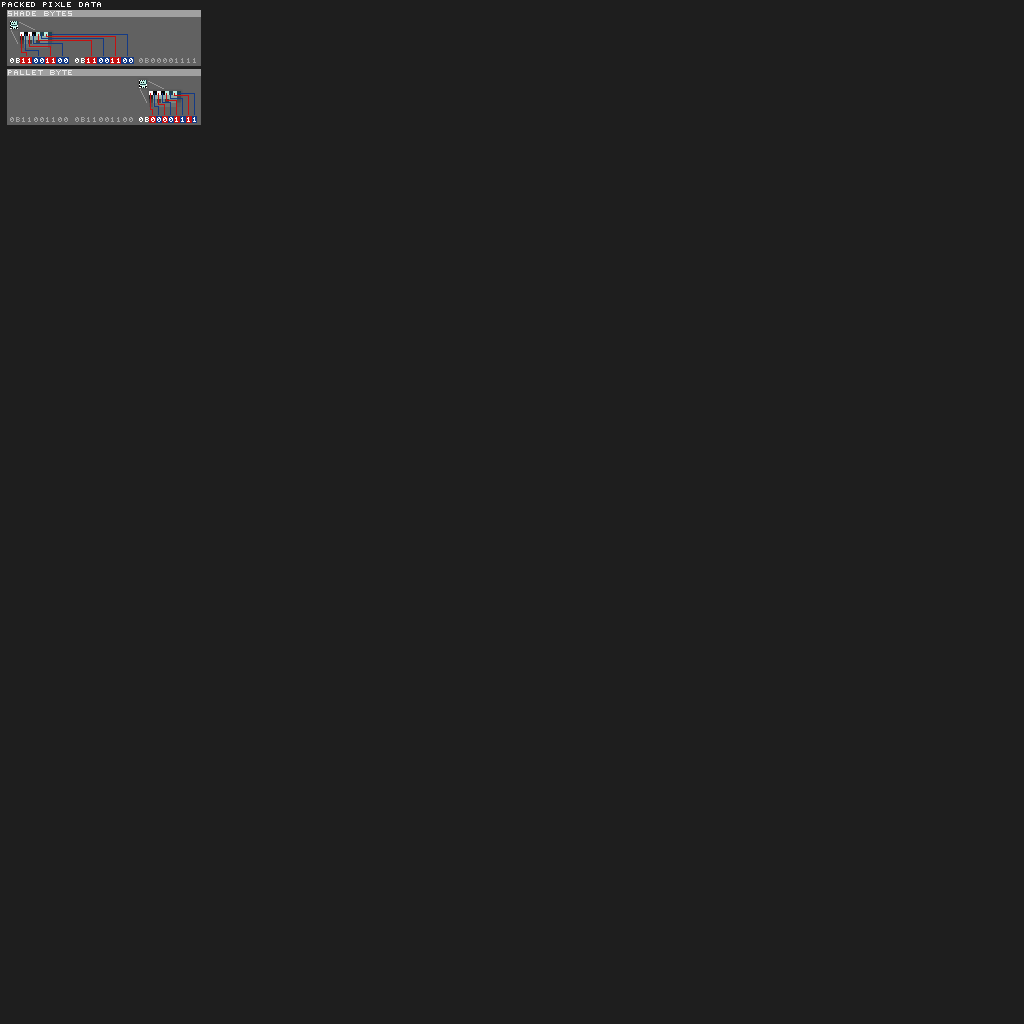
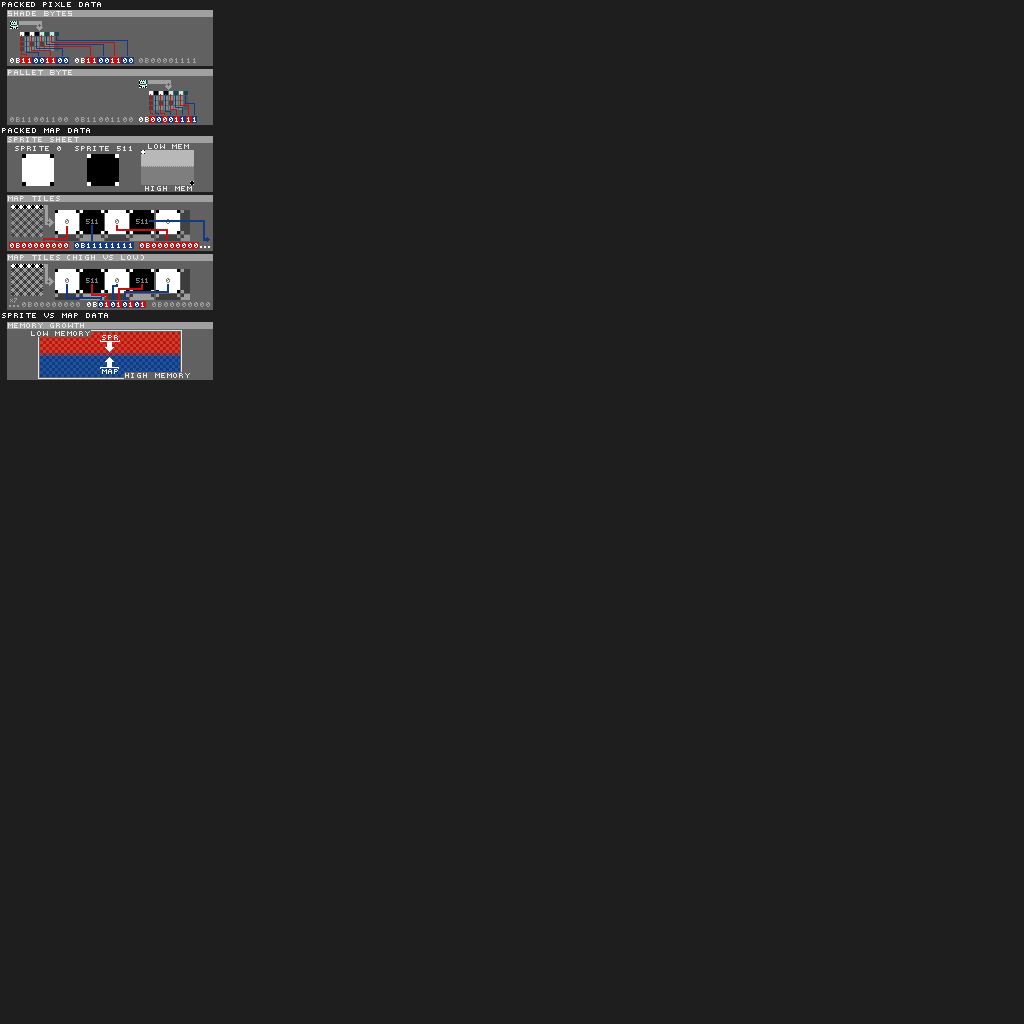
update readme images

Changed region(s): [[0.0, 0.0, 0.2188, 0.375], [0.0, 0.0312, 0.125, 0.0625]]

diff --git a/README.md b/README.md
@@ -155,7 +155,7 @@ excellent material on how to do this already. Visit here or here for some materi
 
 ### GoLF structs
 
-golf.SOp: This structure is a list of options that can be passed to a sprite to change how it is drawn.
+**golf.SOp:** This structure is a list of options that can be passed to a sprite to change how it is drawn.
   * FH: flip the sprite horizontally.
   * FV: flip the sprite vertically.
   * TCol: set the sprites tranparency color.
@@ -166,7 +166,7 @@ golf.SOp: This structure is a list of options that can be passed to a sprite to 
   * SH: the amount to scale the height of the sprite. default value is 1 or no scaling.
   * Fixed: if this is set to true then the sprite ignores the camera x & y when draing. Useful for UI.
 
-golf.TOp: this structure is a list of options that can be passed to text functions to change how text is drawn.
+**golf.TOp:** this structure is a list of options that can be passed to text functions to change how text is drawn.
   * Col: The color to draw the text.
 	* Fixed: If this is set to true the text ignores the camera.
 	* SW: the amount to scale the width of the text.
@@ -174,115 +174,112 @@ golf.TOp: this structure is a list of options that can be passed to text functio
 
 ### Golf Types
 
-golf.Col: a golf color. there are 8 colors ranging from Col0 to Col7. The first 4 colors map to pallet A and the last
+**golf.Col:** a golf color. there are 8 colors ranging from Col0 to Col7. The first 4 colors map to pallet A and the last
 four map to pallet B.
 
-golf.Pal: a golf pallet. There are 16 available pallets (Pal0 to Pal15). These can be used to give you game a unique feel/ look.
+**golf.Pal:** a golf pallet. There are 16 available pallets (Pal0 to Pal15). These can be used to give you game a unique feel/ look.
 
 ### The GoLF Engine
 
-NewEngine(updateFunc func(), draw func()): creates a golf engine instance and returns a pointer to the engine. The golf engine is
-the main object used to perform most of the golf functions
+**NewEngine(updateFunc func(), draw func()):** creates a golf engine instance and returns a pointer to the engine. 
+The golf engine is the main object used to perform most of the golf functions
 
-engine.Run(): starts the game engine running. Once this is run the update function will be called 60 times a second and the draw function will be called 60 times a second.
+**engine.Run():** starts the game engine running. Once this is run the update function will be called 60 times a second and the draw function will be called 60 times a second.
 
-engine.Frames(): returns the number of frames that have passed since the game engine was started. This count includes
+**engine.Frames():** returns the number of frames that have passed since the game engine was started. This count includes
 the startup animation frames. The startup animation is 254 frames meaning the first frame that the update/ draw function 
 will be called is frame 255.
 
-engine.DrawMouse(style int): sets the draw style for the mouse indictor.
+**engine.DrawMouse(style int):** sets the draw style for the mouse indictor.
   * 0 = no mouse cursor is drawn
   * 1 = a mouse arrow is drawn
   * 2 = a hand cursor is drawn
   * 3 = a cross cursoe is drawn
 
-engine.Cls(col golf.Col): fills the screen with the col color.
+**engine.Cls(col golf.Col):** fills the screen with the col color.
 
-engine.Camera(x, y int): Changes the X, Y coordinates of the camera. This value is then subtracted from the
+**engine.Camera(x, y int):** Changes the X, Y coordinates of the camera. This value is then subtracted from the
 X, Y coordinates of all future drawing calls. This is useful for moving the panning the screen around.
 
-engine.Clip(x, y, w, h int): clips all future draw functions with upper left corner at point (x, y) and with w and heigh h.
+**engine.Clip(x, y, w, h int):** clips all future draw functions with upper left corner at point (x, y) and with w and heigh h.
 
-engine.RClip(): resets the screen clipping so that no screen pixels are clipped.
+**engine.RClip():** resets the screen clipping so that no screen pixels are clipped.
 
-engine.PalA(pallet golf.Pal): sets the first pallet.
+**engine.PalA(pallet golf.Pal):** sets the first pallet.
 
-engine.PalB(pallet golf.Pal): sets the second pallet.
+**engine.PalB(pallet golf.Pal):** sets the second pallet.
 
-engine.PalGet(): returns the first and second pallets that are currently set.
+**engine.PalGet():** returns the first and second pallets that are currently set.
 
 ### Shapes
 
-engine.Pset(x, y float64, col golf.Col): Sets the pixel on the screen at point (x, y) to the color col.
+**engine.Pset(x, y float64, col golf.Col):** Sets the pixel on the screen at point (x, y) to the color col.
 
-engine.Pget(x, y float64): Gets the color currently set at screen pixel (x, y).
+**engine.Pget(x, y float64):** Gets the color currently set at screen pixel (x, y).
 
-engine.Rect(x, y, w, h float64, col golf.Col): Draw an empty rectangle outline with the specified draw color.
+**engine.Rect(x, y, w, h float64, col golf.Col):** Draw an empty rectangle outline with the specified draw color.
 
-engine.RectFill(x, y, w, h float64, col golf.Col): Draw a filled rectangle with the specified draw color.
+**engine.RectFill(x, y, w, h float64, col golf.Col):** Draw a filled rectangle with the specified draw color.
 
-engine.Line(x1, y1, x2, y2 float64, col golf.Col): Draw a line from point (x1, y1) to (x2, y2). The line is drawn with
+**engine.Line(x1, y1, x2, y2 float64, col golf.Col):** Draw a line from point (x1, y1) to (x2, y2). The line is drawn with
 the specified color.
 
-engine.Circ(xc, yx, r float64, col golf.Col): Draw a circle outline with center at point (xc, yc) with radius r.
+**engine.Circ(xc, yx, r float64, col golf.Col):** Draw a circle outline with center at point (xc, yc) with radius r.
 The outline is drawn with the specified color.
 
-engine.CircFill(xc, yc, r float64, col golf.Col): Draw a filled circle with center at point (xc, yc) with radius r.
+**engine.CircFill(xc, yc, r float64, col golf.Col):** Draw a filled circle with center at point (xc, yc) with radius r.
 The circle is drawn with the specified color
 
 ### Controlls
 
-engine.Btn(key golf.Key): returns true if the given key is being held on this frame.
+**engine.Btn(key golf.Key):** returns true if the given key is being held on this frame.
 
-engine.Btnp(key golf.Key): returns true if the given key was first pressed on this frame.
+**engine.Btnp(key golf.Key):** returns true if the given key was first pressed on this frame.
 
-engine.Btnr(key golf.Key): returns true if the given key was released on this frame.
+**engine.Btnr(key golf.Key):** returns true if the given key was released on this frame.
 
-engine.Mbtn(key golf.MouseBtn): returns true if the given mouse key is being held on this frame.
+**engine.Mbtn(key golf.MouseBtn):** returns true if the given mouse key is being held on this frame.
 
-engine.Mbtnp(key golf.MouseBtn): returns true if the given mouse key was first pressed on this frame.
+**engine.Mbtnp(key golf.MouseBtn):** returns true if the given mouse key was first pressed on this frame.
 
-engine.Mbtnr(key golf.MouseBtn): returns true if the given mouse was released ont his frame.
+**engine.Mbtnr(key golf.MouseBtn):** returns true if the given mouse was released ont his frame.
 
 ### Map
 
-engine.LoadMap(mapData [0x4800]byte): load the map data into memory.
+**engine.LoadMap(mapData [0x4800]byte):** load the map data into memory.
 
-engine.Map(mx, my, mw, mh int, dx, dy float64, opts ...SOp): Draws the map data onto the screen witht he left coordinate 
+**engine.Map(mx, my, mw, mh int, dx, dy float64, opts ...SOp):** Draws the map data onto the screen witht he left coordinate 
 at screen point dx, dy. mx and my are the map coordinates in tiles and dw and mh are the map size in tiles. opts are optional and change how each individual map tile is drawn.
 
-engine.Mset(x, y, t int): sets the map tile to sprite number t at the map coordinate (x, y)
+**engine.Mset(x, y, t int):** sets the map tile to sprite number t at the map coordinate (x, y)
 
-engine.Mget(x, y int): returns the sprite index of the tile a the map coordinate (x, y)
+**engine.Mget(x, y int):** returns the sprite index of the tile a the map coordinate (x, y)
 
 ### Sprites
 
-engine.LoadSprs(sheet [0x3000]byte): load the sprite sheet data into memory.
+**engine.LoadSprs(sheet [0x3000]byte):** load the sprite sheet data into memory.
 
-engine.LoadFlags(flags [0x200]byte): load the sprite flags into memory. Each sprite in the sprite sheet has 1 byte 
+**engine.LoadFlags(flags [0x200]byte):** load the sprite flags into memory. Each sprite in the sprite sheet has 1 byte 
 (or 8 flags) associated with is that can be set and then later checked. The meaning of each of these flags is 
 totally up to the needs of the progarmmer.
 
-engine.Spr(n int, x, y float64, opts ...SOp): draw sprite number n at screen position x, y. opts are optional and change
+**engine.Spr(n int, x, y float64, opts ...SOp):** draw sprite number n at screen position x, y. opts are optional and change
 how the sprite is drawn on screen. the sprite sheet is broken up into 8x8 areas that are then number from the top left 
 to the bottom right. Usually the first 8x8 sprite is not used as this sprite is drawn as a transparent tile when used on the map screen.
 
-engine.SSpr(sx, sy, sw, sh int, dx, dy float64, opts ...SOp): a more general version of the spr function. It draws a sprite from an
-abitrary spot on the sprite sheet with abitrary size to the screen. sx and sy are the pixel coordiantes of upper left corner of the
-sprite on the sprite sheet. sw and sh are the sprites withd and height respectivly. dx and dy are the screen coordinates that
-the sprite is drawn to. opts is optional and changes how the sprite is drawn on screen.
+**engine.SSpr(sx, sy, sw, sh int, dx, dy float64, opts ...SOp):** a more general version of the spr function. It draws a sprite from an abitrary spot on the sprite sheet with abitrary size to the screen. sx and sy are the pixel coordiantes of upper left corner of the sprite on the sprite sheet. sw and sh are the sprites withd and height respectivly. dx and dy are the screen coordinates that the sprite is drawn to. opts is optional and changes how the sprite is drawn on screen.
 
-engine.Fget(n, f int): returns flag number f associated with sprite number n.
+**engine.Fget(n, f int):** returns flag number f associated with sprite number n.
 
-engine.Fset(n, f int, s bool): sets the flag number f for sprite n to the same value as s.
+**engine.Fset(n, f int, s bool):** sets the flag number f for sprite n to the same value as s.
 
-engine.FgetByte(n int): returns the full byte assocated with sprite number n.
+**engine.FgetByte(n int):** returns the full byte assocated with sprite number n.
 
-engine.FsetByte(n int, b byte): sets the full byte assocated with sprite number n to the value of b.
+**engine.FsetByte(n int, b byte):** sets the full byte assocated with sprite number n to the value of b.
 
 ### Text
 
-engine.Text(x, y float64, text string, opts ...TOp): draws the text on screen at point (x, y), all text is converted to the golf
+**engine.Text(x, y float64, text string, opts ...TOp):** draws the text on screen at point (x, y), all text is converted to the golf
 engines internal font which is all upper case. There are also several sequences that are converted in to golf emojis. escaped sequences are listed bellow. opts are optional and modify how the text is drawn.
   * (<) left button
   * (>) right button
@@ -318,18 +315,18 @@ engines internal font which is all upper case. There are also several sequences 
   note: if you need to draw one of these patterns without it being drawn as an emoji you can use the '^' symbole to escape.
   the pattern. (e.g. ^** will be drawn as two asterix characters rather than a star)
 
-engine.TextL(text string, opts ...TOp): draws text in the upper left hand corner of the screen. Each time TextL called a new
+**engine.TextL(text string, opts ...TOp):** draws text in the upper left hand corner of the screen. Each time TextL called a new
 line is added.
 
-engine.TextR(text string, opts ...TOp): draws text in the upper right hand corner of the screen. Each time TextR is called
+**engine.TextR(text string, opts ...TOp):** draws text in the upper right hand corner of the screen. Each time TextR is called
 a new line is added.
 
 ### Cart Data
 
-engine.Dset(name string, data []byte): stores persistent data to a users browser as a cookie. only 1024 bytes or less can be stored and the name must be alpa numeric.
+**engine.Dset(name string, data []byte):** stores persistent data to a users browser as a cookie. only 1024 bytes or less can be stored and the name must be alpa numeric.
 the name is used to save the data so it can be retrived later. Keep in mind this name should be unique or it may get overwritten by other games.
 
-engine.Dget(name string): retrievs data stored with Dset. In addition to returning the data it returns a bool which is true if the saved data was successfully found.
+**engine.Dget(name string):** retrievs data stored with Dset. In addition to returning the data it returns a bool which is true if the saved data was successfully found.
 
 # The GoLF memory map
 Another goal of golf is to be a 'hackable' engine. To achieve this golf uses virtual ram (stored in engine.RAM). This virtual ram
@@ -375,6 +372,8 @@ In order resolve this the golf engine splits a pixels color from its pallet. Thi
 2 bytes with 4 pixel intensities each followed by one byte with 8 color pallets, one for each of the previous 8 pixel intensities.
 You can learn more about his by looking at the pget and pset functions in the golf engine.
 
+![Sprite Data](https://github.com/bjatkin/golf-engine/blob/master/images/sprite_data.png)
+
 # GoLF Map Tile Data
 The golf map supports indexing 512 8x8 sprites from the sprite sheet. This means a map tile value is a maximum of 9 bits. 
 Like with pixel data this odd sizing makes it a little tricky to use memory efficiently. 
@@ -385,12 +384,16 @@ I then idex each tile with an 8 bit integer 0-255 and store which half of the sp
 This data is then packed into RAM as follows. 8 bytes with a 0-255 index for each tile, followed by 1 byte 
 with 8 bits to indicate whether the previous 8 tiles are in high or low memory.
 
+![Map Tile Data](https://github.com/bjatkin/golf-engine/blob/master/images/map_data.png)
+
 # GoLF Graphics Memory Layout (Map and SpriteSheet)
 Additionally it’s worth noting that the GoLF sprite data and GoLF map data are placed next to each other in memory and grow in opposite directions.
 Sprites grow from low memory to high memory and the map grows from high memory to low memory.
 This allows for the sprite sheet or the map to expand beyond the default sizes if needed.
 In the case the the spritesheet ‘overgrows’ the map keep in mind that the map will only index the first
 512 tiles and that the sprite flags will only apply to the first 512 sprites as well.
+
+![Map Vs Sprite Data](https://github.com/bjatkin/golf-engine/blob/master/images/sprite_vs_map.png)
 
 ### TODO
 ---
